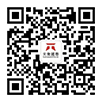
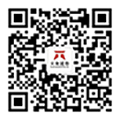
右侧浮动框

diff --git a/application/home/view/public/footer.html b/application/home/view/public/footer.html
@@ -154,13 +154,18 @@
             <img src="__HOME_SC__/images/float/erweima2.jpg" alt="">
         </p>
     </div>
+    <div class="float_xiadan" style="display: none;">
+        <p>
+            <img src="__HOME_SC__/images/float/xiadan.jpg" alt="">
+        </p>
+    </div>
 
     <ul id="toTopUl">
         <li><a class="flo_1" target="_blank" href="http://wpa.qq.com/msgrd?v=3&uin=3507245604&site=qq&menu=yes"><span class="ke_tit">QQ</span></a></li>
         <li><a class="flo_2" href="javascript:void(0);" style="font-size: 14px; width: 60px; opacity: 1;"><span class="ke_tit">电话</span><span class="ke_info">0571-88890244</span></a>
         </li>
-
         <li><a class="flo_w" href="javascript:void(0);" onmouseover="showCode();" onmouseout="hideCode();"><span class="ke_tit">公众号</span></a></li>
+        <li><a class="flo_w2" href="javascript:void(0);" onmouseover="showCode2();" onmouseout="hideCode2();"><span class="ke_tit">扫码下单</span></a></li>
     </ul>
 </div>
 <!--右侧浮动样式-->
@@ -170,7 +175,6 @@
 </body>
 <!--右侧浮动js-->
 <script type="text/javascript">
-
     opentop();
     function opentop(){
         var topTop = "<li id = 'addtotop'><a class = 'flo_4' style = 'cursor: pointer;'><span class='ke_tit'>返回</span></a></li>"
@@ -184,13 +188,13 @@
                     return;
                 }
             }else{
-                $("#toTopUl li:eq(3)").remove();
+                $("#toTopUl li:eq(4)").remove();
             }
         });
     }
     function addtotop(){
         $("#addtotop").bind('click',function(){
-            $("#toTopUl li:eq(3)").remove();
+            $("#toTopUl li:eq(4)").remove();
             $(window).unbind();
             $('html, body').animate({scrollTop:0}, '1000');
             setTimeout('opentop()',500);
@@ -203,7 +207,13 @@
     }
     function hideCode(){
         $(".float_erweima").hide();
-        $(".float_erweima").css("background","");
+    }
+    function showCode2(){
+        $(".float_xiadan").show();
+
+    }
+    function hideCode2(){
+        $(".float_xiadan").hide();
     }
 
     $(function () {
